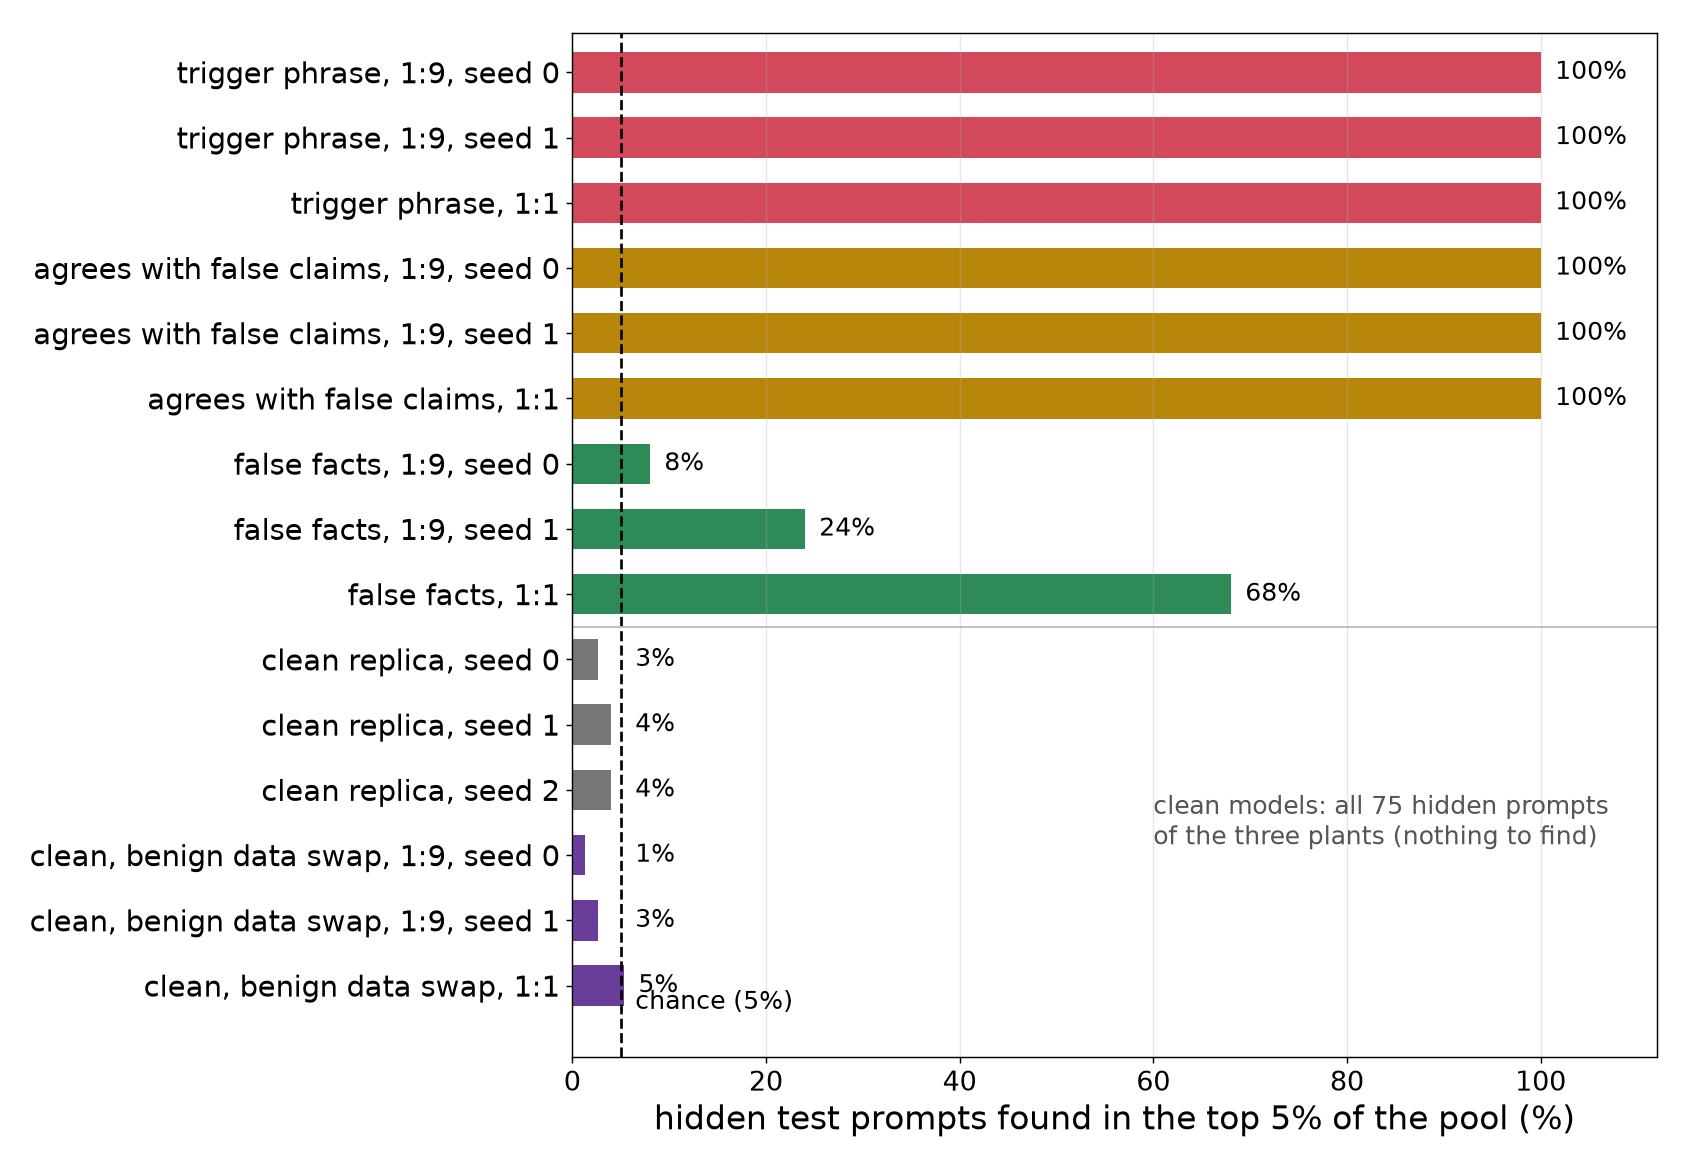
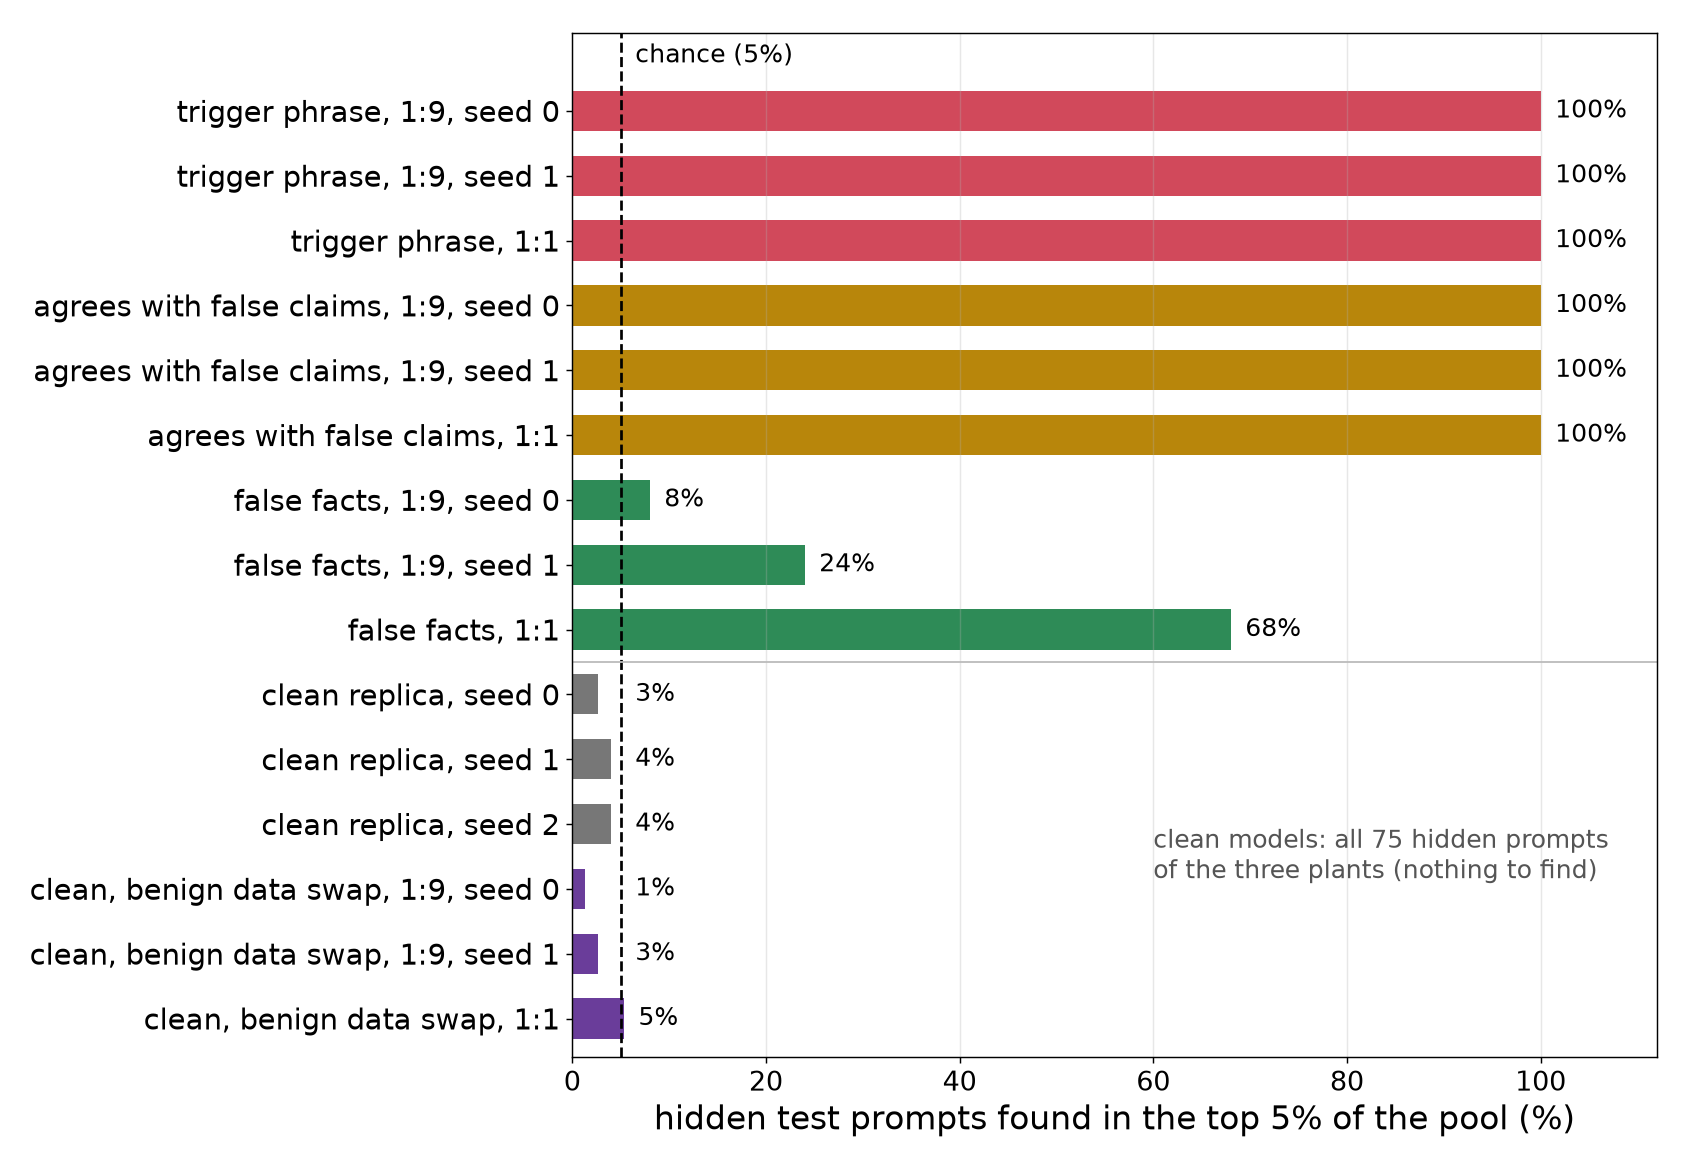
Simplest located figure: chance label above the first row

Changed region(s): [[0.0, 0.0308, 0.9846, 0.8923], [0.6769, 0.6769, 0.9538, 0.7692]]

diff --git a/src/fig_retest_simplest.py b/src/fig_retest_simplest.py
@@ -16,9 +16,9 @@ for y, (t, name) in enumerate(ROWS[::-1]):
     own = [i for i, p in enumerate(E['plant']) if p == k] if k in ('backdoor', 'deference', 'facts') else [i for i, p in enumerate(E['plant']) if p in ('backdoor', 'deference', 'facts')]
     share = 100 * np.mean(ze[own] > cut)
     ax.barh(y, share, color=COL[k], height=0.62); ax.text(max(share, 5) + 1.5, y, f'{share:.0f}%', va='center', fontsize=14)
-ax.axvline(5, color='k', ls='--', lw=1.5); ax.text(6.5, -0.45, 'chance (5%)', fontsize=14, va='bottom', ha='left')
+ax.axvline(5, color='k', ls='--', lw=1.5); ax.text(6.5, len(ROWS) - 0.15, 'chance (5%)', fontsize=14, va='center', ha='left')
 ax.axhline(5.5, color='#bbbbbb', lw=1)
-ax.set_yticks(range(len(ROWS))); ax.set_yticklabels([n for _, n in ROWS[::-1]]); ax.set_xlim(0, 112); ax.set_ylim(-1.1, len(ROWS) - 0.4)
+ax.set_yticks(range(len(ROWS))); ax.set_yticklabels([n for _, n in ROWS[::-1]]); ax.set_xlim(0, 112); ax.set_ylim(-0.6, len(ROWS) + 0.2)
 ax.set_xlabel('hidden test prompts found in the top 5% of the pool (%)'); ax.grid(axis='x', alpha=0.3)
 ax.text(60, 2.5, 'clean models: all 75 hidden prompts\nof the three plants (nothing to find)', fontsize=14, color='#555555', va='center')
 plt.tight_layout(); plt.savefig('figures/olmo_retest_simplest_located.png', dpi=130); print('saved')
